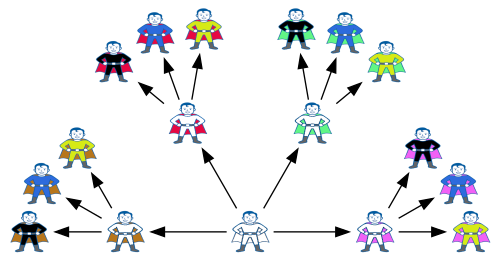
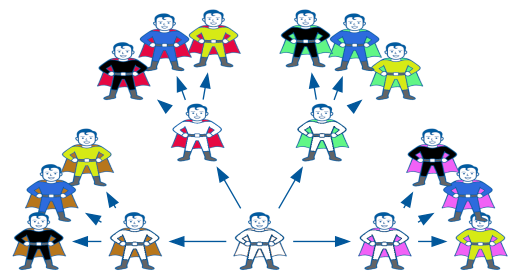
better coloring of tree figure in fund. comb. principle

Changed region(s): [[0.0, 0.0307, 0.99, 0.9808], [0.18, 0.0307, 0.48, 0.705]]

diff --git a/support/generate-colored-heroes.py b/support/generate-colored-heroes.py
@@ -22,7 +22,7 @@ fig.savefig('superhero-grid.png', dpi=300,
 tree = 'digraph { layout="neato" bgcolor="#00000000"'
 tree += f's[pos="0,0!" image="superhero.png"'
 tree += f'shape=none label="",' +\
-        f'width=.5 height=.5 fixedsize="true"]\n'
+        f'width=.7 height=.7 imagescale="width" fixedsize="true"]\n'
 
 cape_rho = 1.3
 cape_theta = np.linspace(0, np.pi, len(cape_colors))
@@ -40,8 +40,8 @@ for cape_color, (x, y) in zip(cape_colors, cape_pos):
             f'image="superhero_{cape_color}.png" label="", ' + \
             'style="invisible" ' +\
             'shape=none ' +\
-            'width=.5 height=.5 fixedsize="true"]\n'
-    tree += f's -> cap_{cape_color};'
+            'width=.7 height=.7 imagescale="width" fixedsize="true"]\n'
+    tree += f's -> cap_{cape_color} [color="#01579b", penwidth=1];'
 
 
 
@@ -56,8 +56,8 @@ for cape_color, (x, y) in zip(cape_colors, cape_pos):
                 f'[pos="{x+x_delta:.2f},{y+y_delta:.2f}!", ' +\
                 f'image="superhero-{suit_color}-{cape_color}.png", ' + \
                 'label="", ' + \
-                'shape=none, width=.5 height=.5, fixedsize="true"]\n'
-        tree += f'cap_{cape_color} -> cap_{cape_color}_costume_{suit_color};'
+                'shape=none, width=.7 height=.7 imagescale="width" fixedsize="true"]\n'
+        tree += f'cap_{cape_color} -> cap_{cape_color}_costume_{suit_color}  [color="#01579b", penwidth=1];'
 
 
 tree += '}'
